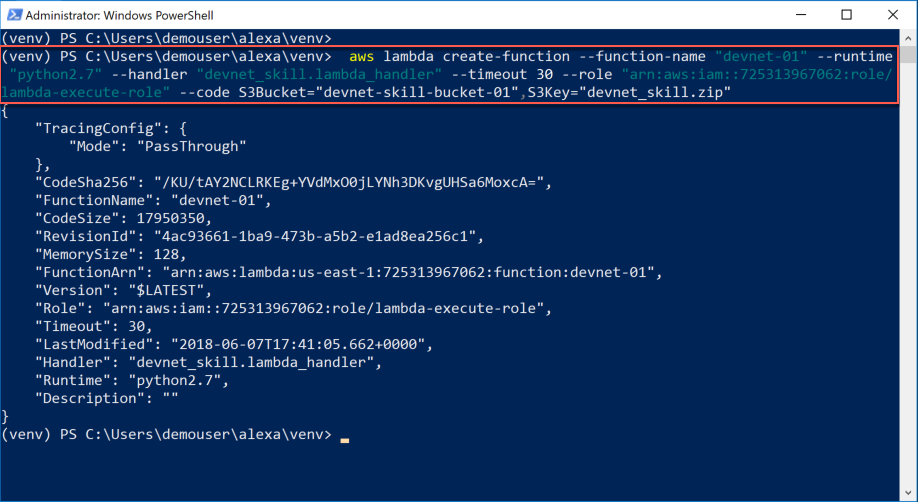
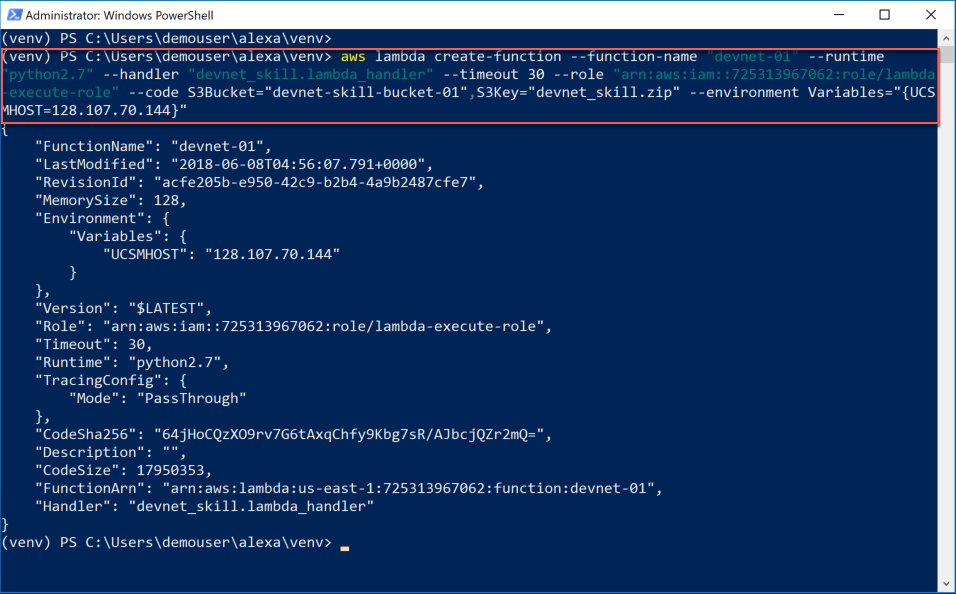
Initial page 5 and images

Changed region(s): [[0.0, 0.239, 0.7015, 0.9263], [0.0, 0.0, 1.0, 1.0]]

diff --git a/labs/devnet-alexa-lab/3.md b/labs/devnet-alexa-lab/3.md
@@ -7,34 +7,10 @@ When triggered the Lambda function (the code) is loaded on a server and run.
 
 In the case of an Alexa Skill the Lambda function is triggered when the Alexa Skill "hears" one of its' defined utterances. You'll get to setup the utterances on the next page.
 
-#### Change and Package The Code
-First you need to make a small modification to the Lambda code. Then package the changed code with existing supporting supporting code.
+#### Package the Code
+Package the UCS Manager Operations code with existing supporting DevNet Skill code.
 
-1. Change the code so that it uses your assigned **UCS Manager** You should already be in the **venv** directory
-
-  - type this command
-
-    `notepad ucsm_operations.py`
-
-    and hit enter
-
-  - enter your UCS Manager IP address, where the code looks like this:
-
-    `ucsmhost = "Your UCS Manager IP"`
-
-    Change "Your UCS Manager IP" to your assigned UCS Manager IP. For example if your UCS Manager IP address is `10.10.10.10` then the code will look as shown below
-
-    `ucsmhost = "10.10.10.10"`
-
-  - Save the changes and exit out of notepad
-
-  Update the ucsm_operations.py Code:
-
-  ![](assets/images/image-13.jpg)<br/><br/>
-
-  ![](assets/images/image-14.jpg)<br/><br/>
-
-2. Package the changed code with `zip`.
+1. Package the code with `zip`.
 
   When you copied the code from the "**devnet-alexa**" directory to this directory you copied more than just the `ucsm_operations.py` code you also copied the Alexa Skill handler code called `devnet_skill.py` and a package of other supporting code that AWS Lambda needs to run the `ucsm_operations.py` code.
 
@@ -91,10 +67,14 @@ You'll run the command to create the Lambda function and connect it to the code 
 
 1. Create the Lambda function and connect it to the code in S3
 
-  - type this command
+  - type this command, you need to replace the `0.0.0.0` IP address as the very end of the command with your UCS Manager IP Address.
 
-    ```python
-    aws lambda create-function --function-name "devnet-01" --runtime "python2.7" --handler "devnet_skill.lambda_handler" --timeout 30 --role "arn:aws:iam::725313967062:role/lambda-execute-role" --code S3Bucket="devnet-skill-bucket-01",S3Key="devnet_skill.zip"
+    For example if your UCS Manager IP Address is `128.107.70.143` then the last line of the command need to look as follows
+
+    `--environment Variables="{UCSMHOST=128.107.70.143}"`
+
+    ```code
+    aws lambda create-function --function-name "devnet-01" --runtime "python2.7" --handler "devnet_skill.lambda_handler" --timeout 30 --role "arn:aws:iam::725313967062:role/lambda-execute-role" --code S3Bucket="devnet-skill-bucket-01",S3Key="devnet_skill.zip" --environment Variables="{UCSMHOST=0.0.0.0}"
     ```
 
     and hit enter
@@ -112,6 +92,8 @@ You'll run the command to create the Lambda function and connect it to the code 
   - `--role` - is a reference to the rights this Lambda function has in AWS when running.
 
   - `--code` - is the code you uploaded to the S3 bucket
+
+  - `--environment Variables={UCSMHOST=0.0.0.0}` - is the way you indicate the IP address of you UCS Manager
 
   Create the Lambda Function:
 

diff --git a/labs/devnet-alexa-lab/5.md b/labs/devnet-alexa-lab/5.md
@@ -1,10 +1,43 @@
 # DevNet Alexa Data Center Skill Lab
 
 ## Manage the Data Center with Voice
-It is time to test out your Alexa Skill and see if you can manage your Data Center Infrastructure with your voice.
+It is time to test out your Alexa DevNet Skill and see if you can manage your Data Center Infrastructure with your voice.
 
 You are going to utilize the UCS Manager interface to view the requests you make of your Skill in action.
 
-####  
+#### Launch UCS Mangager
+
+1. Browse to the IP Address or your UCS Manager
+
+  - ***Click*** the "Launch UCS Manager" button
+
+      ![](assets/images/image-49.jpg)<br/><br/>
+
+    The interface may take a few moments to load
+
+  - ***Enter*** the UCS Manager Credentials
+
+    - Username - `admin`
+    - Password - `password`
+
+  - ***Click*** the "Login" button
+
+      ![](assets/images/image-50.jpg)<br/><br/>
+
+  - ***Click*** the "Cancel" button if you receive the "Anonymous Reporting" pop-up *dialog*
+
+      ![](assets/images/image-51.jpg)<br/><br/>
+
+#### Test the GetFaults Intent
+
+1. Using your Amazon Echo Dot
+
+  - ***Speak*** - "Alexa ask devnet what is my fault count?"
+
+    After a few moments the Echo (Alexa) should respond with the overall system fault counts found at the top of the UCS Manager Interface.
+
+      ![](assets/images/image-52.jpg)<br/><br/>
+
+
 #### Congratulations!
 Congratulations You Completed the - **DevNet Alexa Data Center Skill Lab**. We at DevNet hoped you enjoyed it, learned something new and may even take your new knowledge back to your environment and put it into action.

diff --git a/labs/devnet-alexa-lab/4.md b/labs/devnet-alexa-lab/4.md
@@ -188,7 +188,7 @@ With the model built you can specify an "Endpoint" that the Alex Skill will use 
 
     ![](assets/images/image-46.jpg)<br/><br/>
 
-3. Copy the Lambda function ARN (Amazon Resource Number) from the Lambda function page on AWS. If your session at aws.amazon.com has timed out
+3. Copy the Lambda function ARN (Amazon Resource Number) from the Lambda function page on AWS. If your session at aws.amazon.com has timed out [use this link to log back in](https://725313967062.signin.aws.amazon.com/console)
 
   - ***Select*** and copy the Lambda ARN
 
@@ -207,7 +207,7 @@ Good job, you are done creating the Alexa Skill. Here's what you've accomplished
 
 - You **built** the DevNet Skill Model
 
-- You **add** an Endpoint to the Skill, this is the Lambda function.
+- You **added** an Endpoint to the Skill. The endpoint is the Lambda function.
 
 Now that your DevNet Alexa Skill is completed it is time to test if your skill.
 
